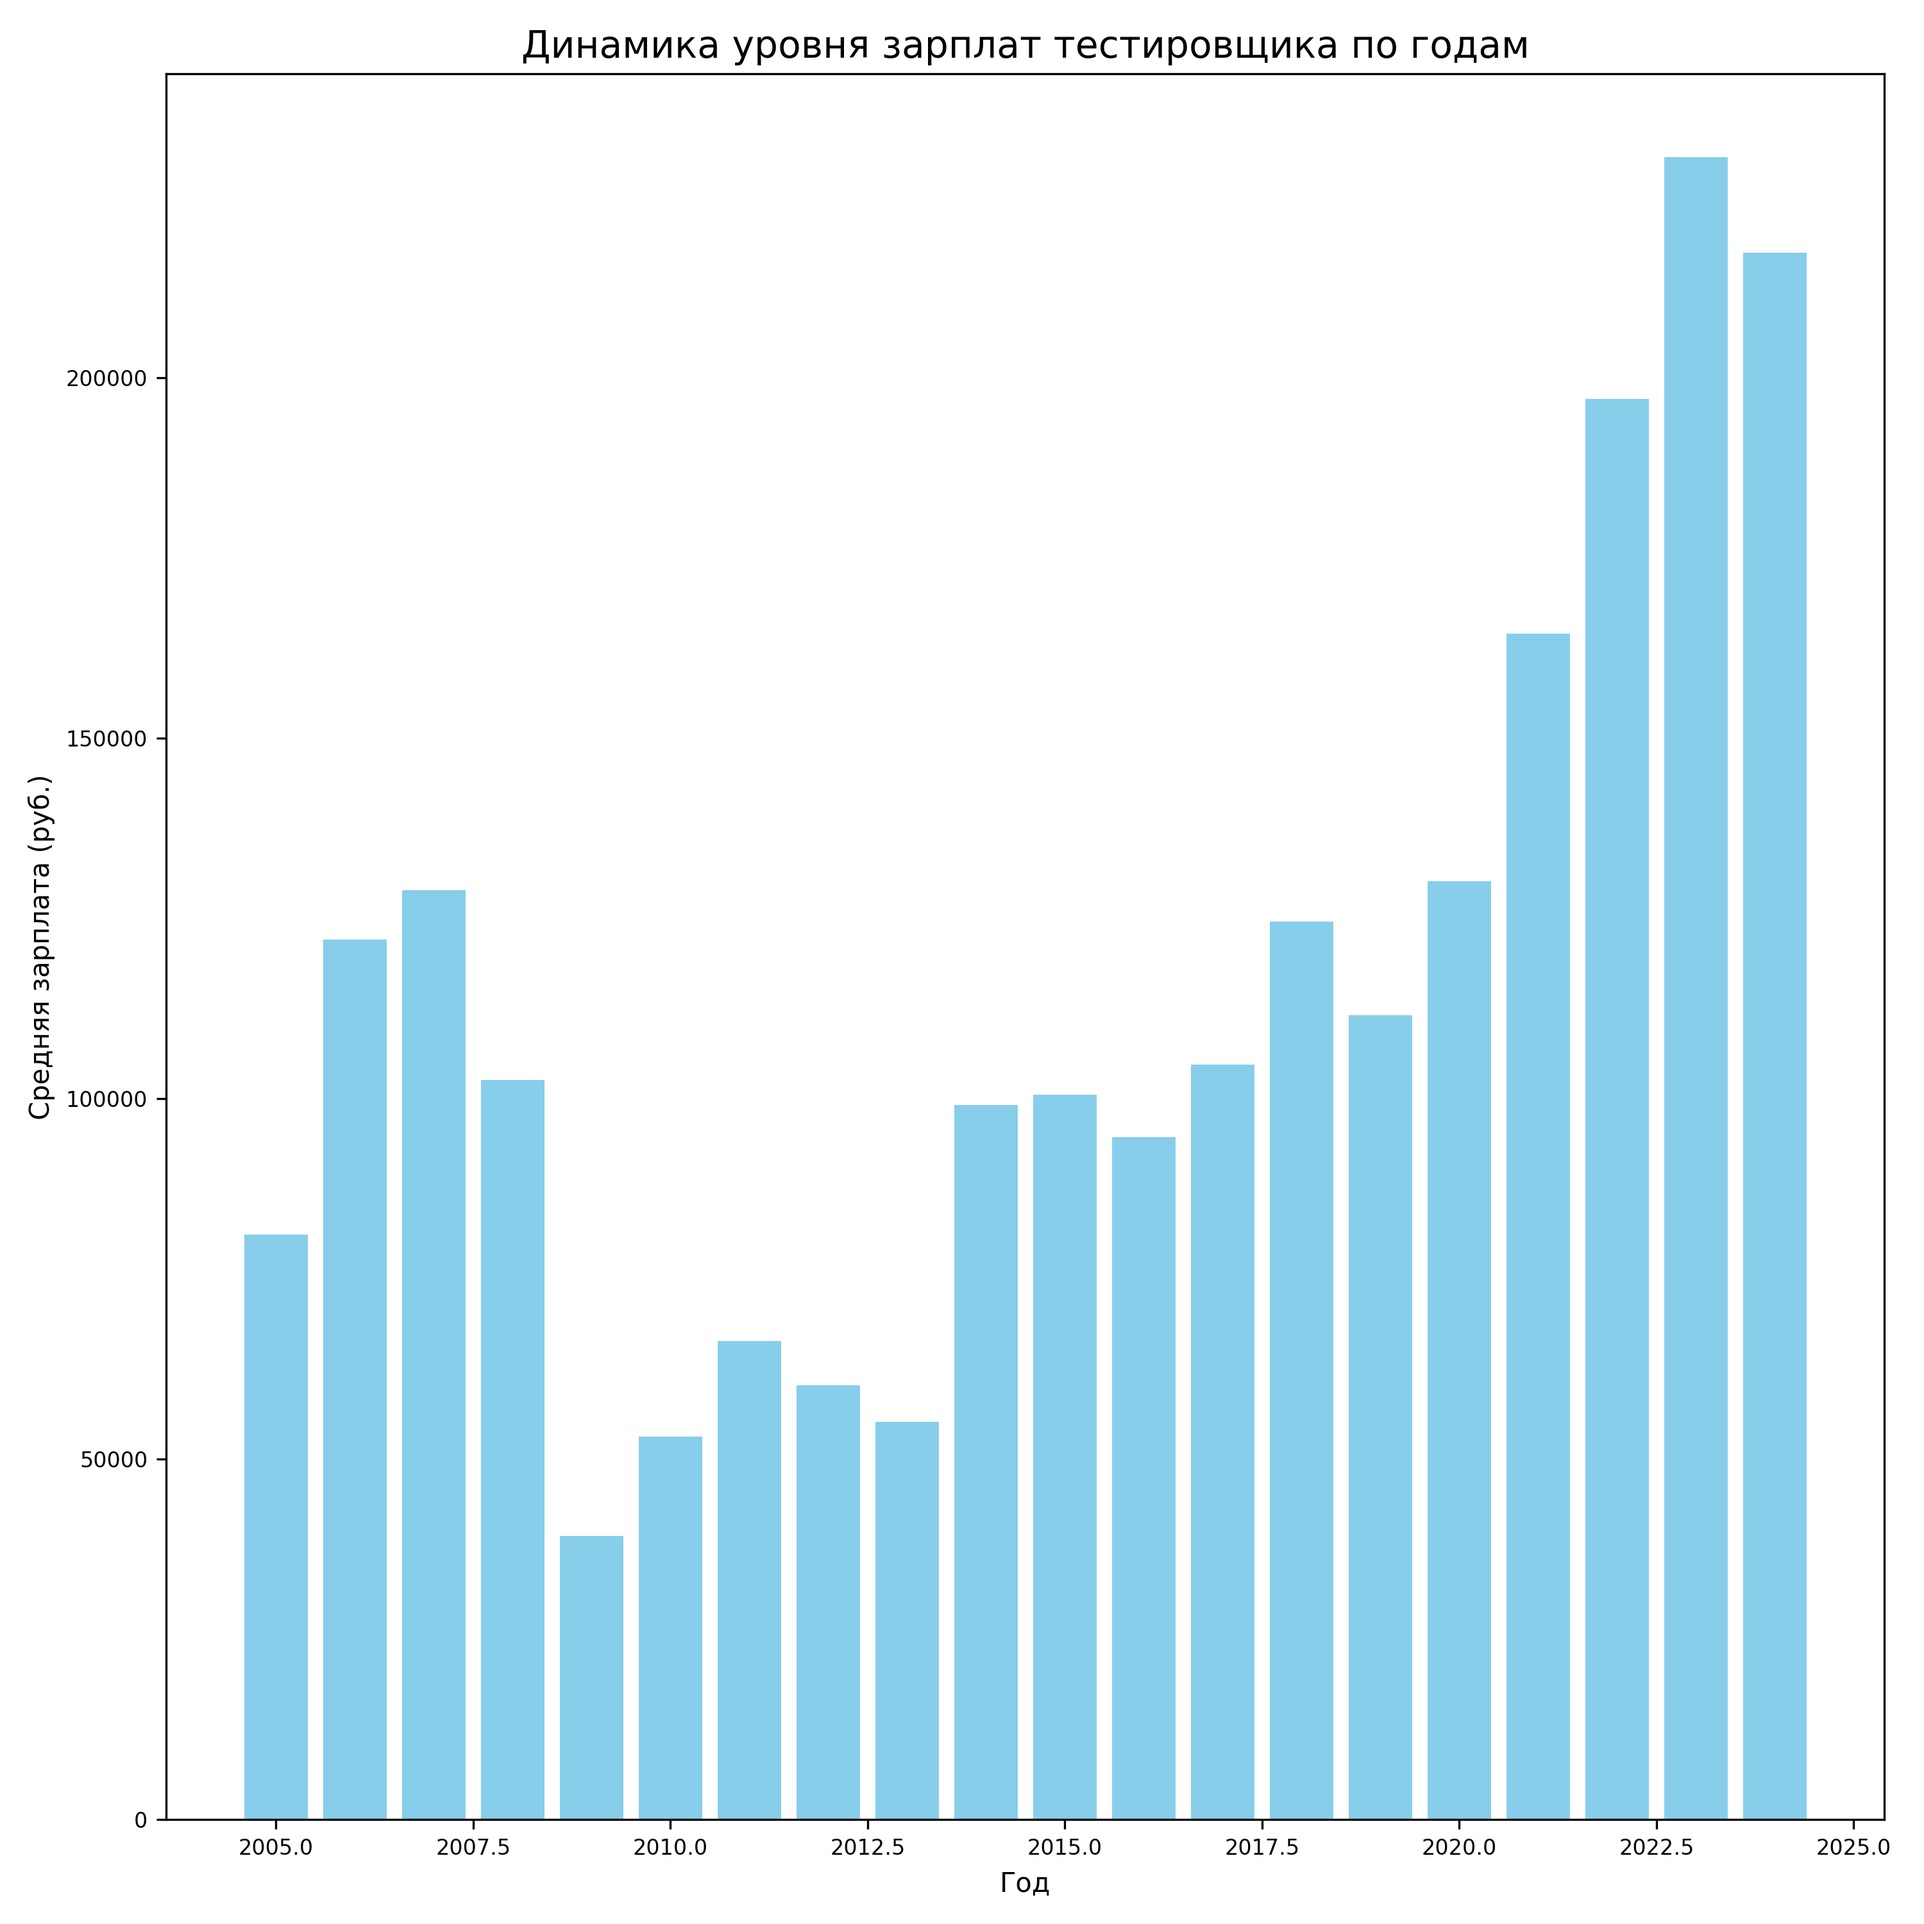
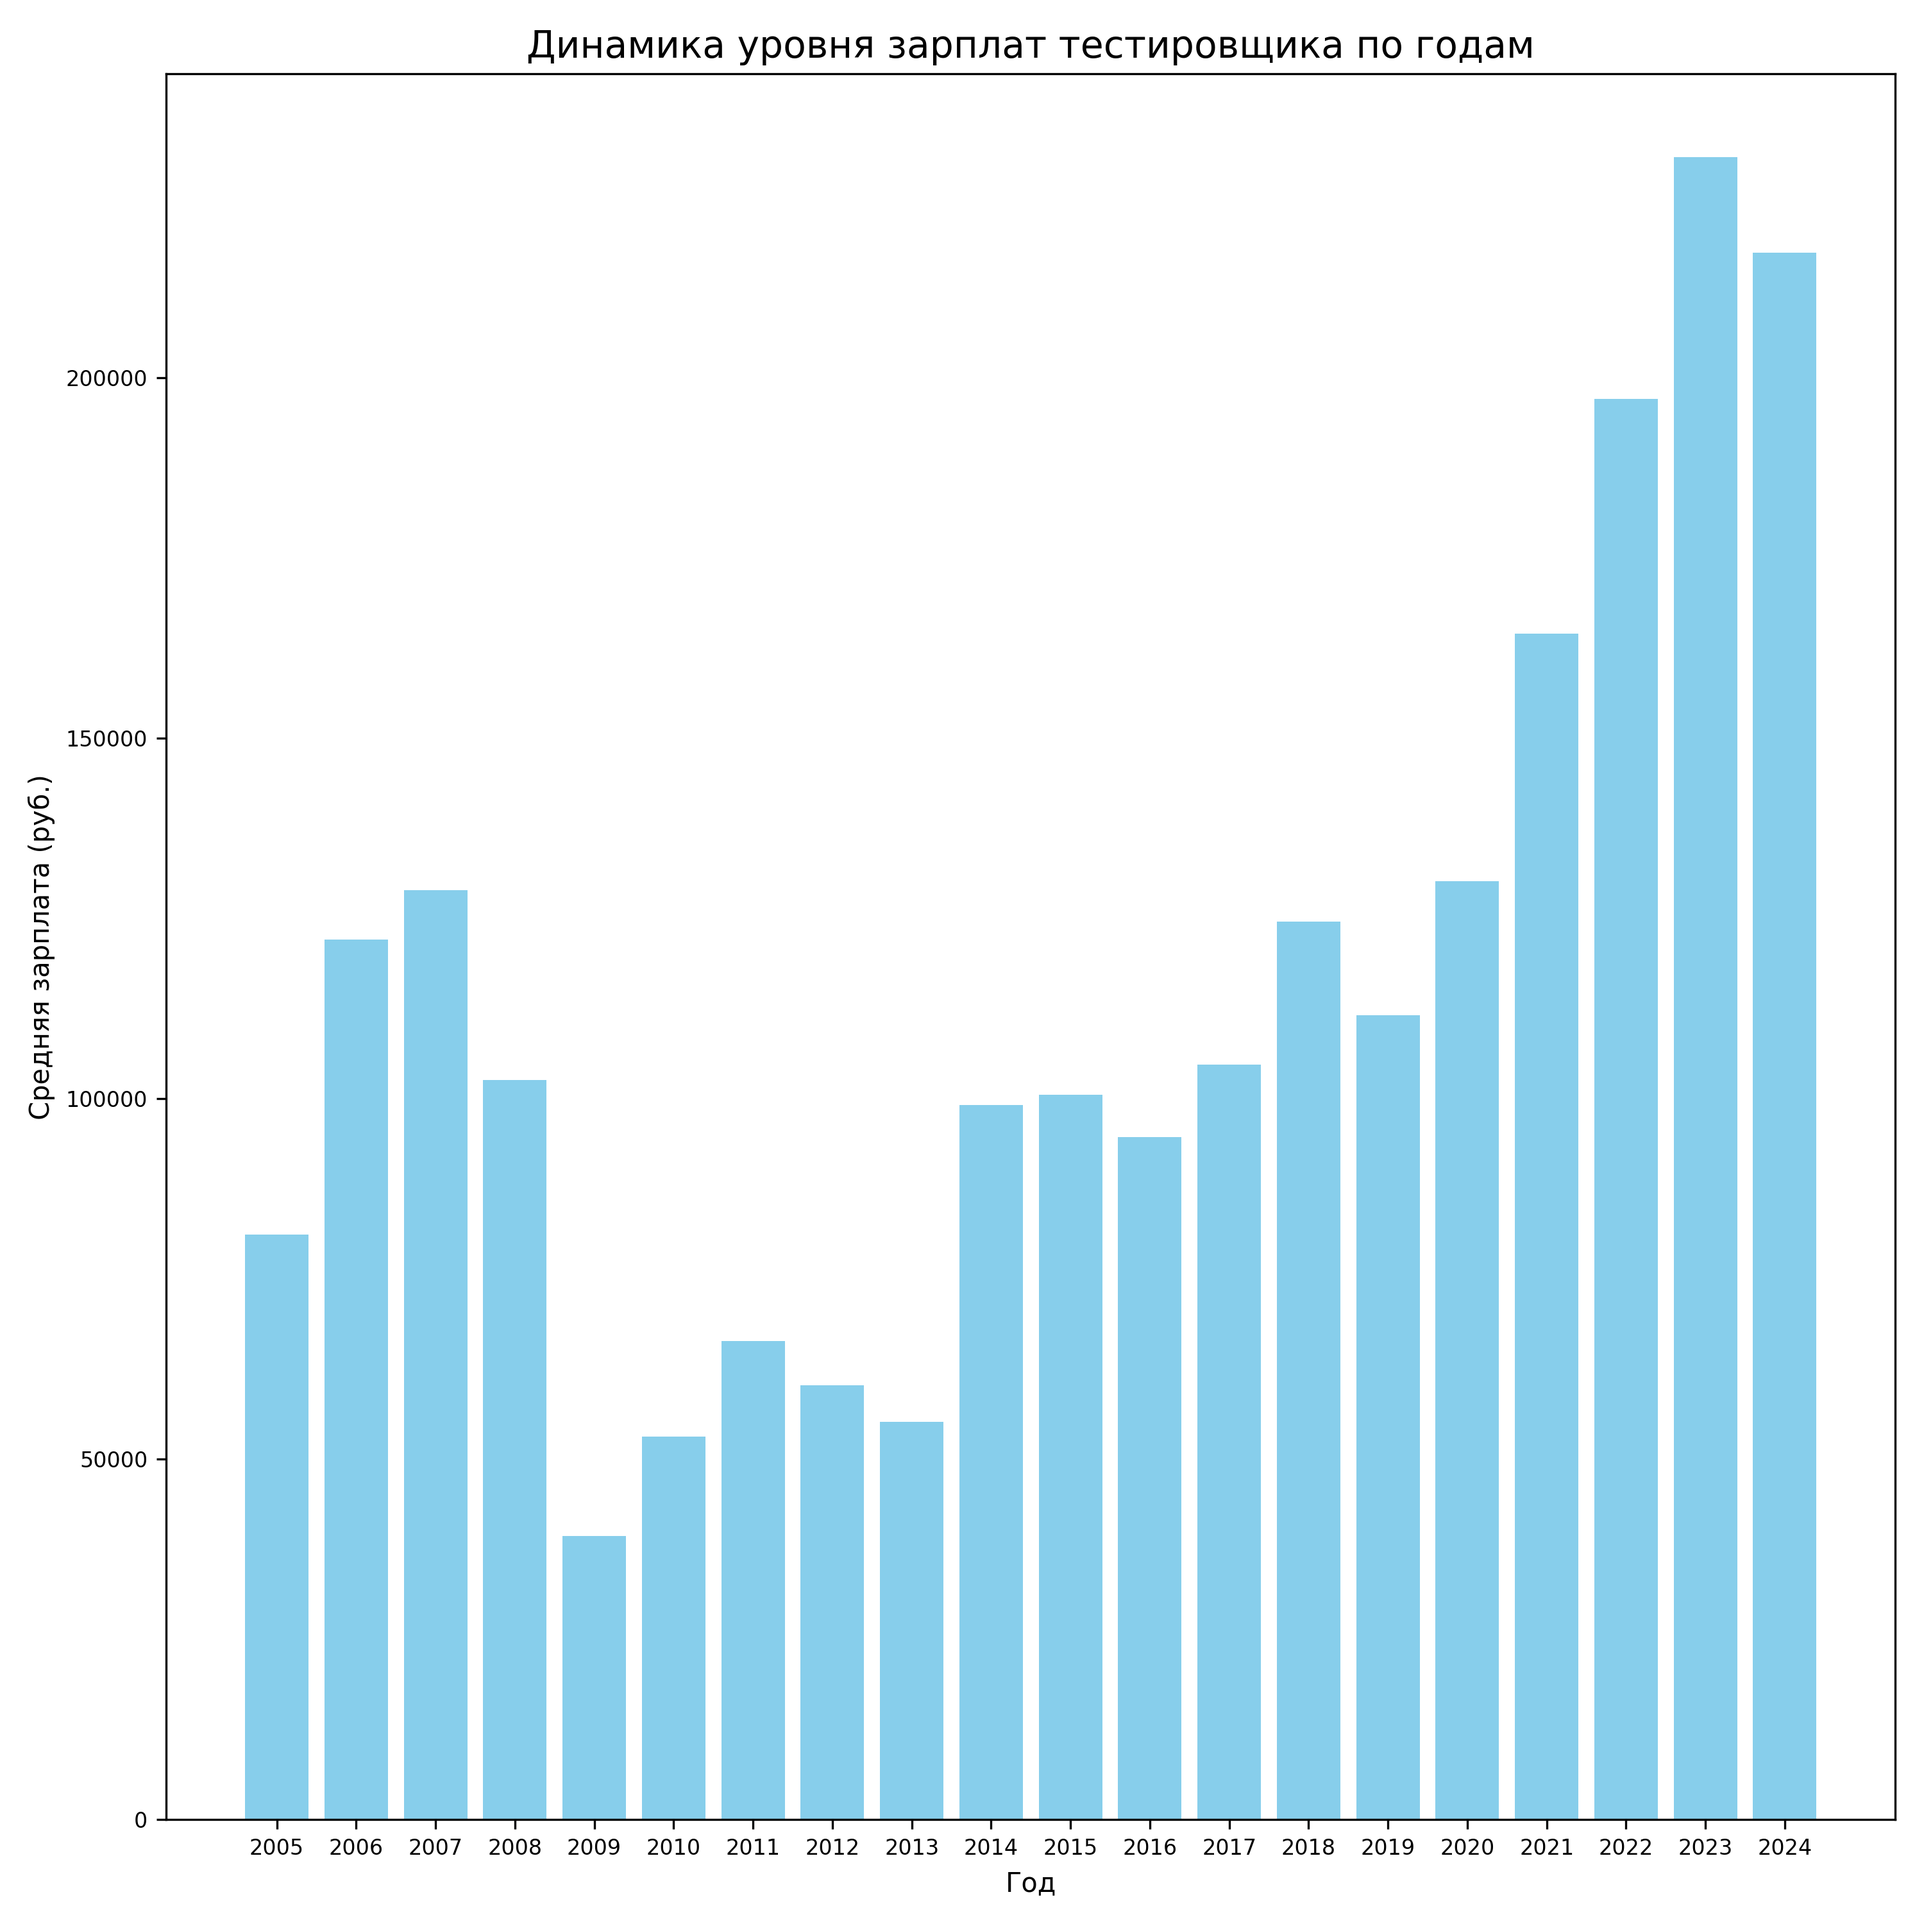
added demand page CRUD-operations

diff --git a/templates/demand/demand.html b/templates/demand/demand.html
@@ -5,3 +5,57 @@
 {% block links %}
 <link rel="stylesheet" href="{% static 'demand/css/demand.css' %}">
 {% endblock %}
+
+{% block content %}
+<section class="statistic-section">
+    <h1 class="statistic-title">Средняя зарплата по годам</h1>
+
+    <div class="section-statistic-flex">
+        <table class="skills-table">
+            <thead>
+                <tr>
+                    <th>Год</th>
+                    <th>Средняя зарплата</th>
+                </tr>
+            </thead>
+            <tbody>
+                {% for year, salary in average_salary.items %}
+                    <tr>
+                        <td>{{ year }}</td>
+                        <td>{{ salary }}</td>
+                    </tr>
+                {% endfor %}
+            </tbody>
+        </table>
+
+        <div class="chart-container">
+            <img src="{% static 'demand/img/avg-salaries.png' %}" alt="График средних зарплат">
+        </div>
+    </div>
+
+    <h1 class="statistic-title">Количество вакансий по годам</h1>
+
+    <div class="section-statistic-flex">
+        <table class="skills-table">
+            <thead>
+                <tr>
+                    <th>Год</th>
+                    <th>Средняя зарплата</th>
+                </tr>
+            </thead>
+            <tbody>
+                {% for year, vacancies_count in vacancies_count.items %}
+                    <tr>
+                        <td>{{ year }}</td>
+                        <td>{{ vacancies_count }}</td>
+                    </tr>
+                {% endfor %}
+            </tbody>
+        </table>
+
+        <div class="chart-container">
+            <img src="{% static 'demand/img/vacancies-count.png' %}" alt="График средних зарплат">
+        </div>
+    </div>
+</section>
+{% endblock %}

diff --git a/static/demand/css/demand.css b/static/demand/css/demand.css
@@ -1,4 +1,49 @@
-.nav-panel ul li:nth-child(3) a {
+.nav-panel ul li:nth-child(5) a {
     color: #eb5959;
     transform: scale(1.05);
+}
+
+.skills-table {
+    margin-left: 40px;
+    margin-bottom: 60px;
+    width: 600px;
+}
+
+.skills-table th, .skills-table td {
+    padding: 10px;
+    text-align: left;
+    border: 1px solid #ddd;
+}
+
+.skills-table th {
+    background-color: #f4f4f4;
+}
+
+.chart-container {
+    text-align: center;
+    margin-top: 20px;
+}
+
+.chart-container img {
+    height: 1000px;
+    width: 1000px;
+}
+
+.section-statistic-flex {
+    display: flex;
+}
+
+.statistic-title {
+    text-align: center;
+    font-size: 36px;
+}
+
+.statistic-section {
+    font-family: 'Jura', sans-serif;
+}
+
+.statistic-section h2 {
+    text-align: center;
+    font-weight: 800;
+    margin-top: 70px;
 }

diff --git a/templates/skills/skills.html b/templates/skills/skills.html
@@ -30,7 +30,6 @@
                 </tbody>
             </table>
 
-            <!-- График -->
             <div class="chart-container">
                 <img src="{% get_static_prefix %}skills/img/skills-plot-{{ year }}.png" alt="График по навыкам за {{ year }}">
             </div>

diff --git a/demand/utils.py b/demand/utils.py
@@ -4,10 +4,11 @@ import matplotlib.pyplot as plt
 import os
 import json
 from django.conf import settings
+from demand.models import DemandPageSalary
+from demand.models import DemandPageVacanciesCount
 
 
 CURRENCY_RATE = {'RUR': 1}
-
 
 def get_currency_rate(currency_code):
     if currency_code not in CURRENCY_RATE:
@@ -107,14 +108,58 @@ def save_salary_graph(input_file):
     plt.xlabel('Год', fontsize=10)
     plt.ylabel('Средняя зарплата (руб.)', fontsize=10)
 
-    plt.xticks(fontsize=8)
+    plt.xticks(years, fontsize=8)
     plt.yticks(fontsize=8)
 
     plt.tight_layout()
 
     img_dir = os.path.join(settings.BASE_DIR, 'static', 'demand', 'img')
-    os.makedirs(img_dir, exist_ok=True)
     file_path = os.path.join(img_dir, f'avg-salaries.png')
     plt.savefig(file_path, dpi=300)
     plt.close()
 
+def save_vacancies_count_graph(input_file):
+    with open(input_file, 'r', encoding='utf-8') as f:
+        vacancies_count_data = json.load(f)
+
+    years = list(map(int, vacancies_count_data.keys()))
+    vacancies_count = [salary for salary in vacancies_count_data.values()]
+
+    plt.figure(figsize=(10, len(vacancies_count) * 0.5))
+    plt.bar(years, vacancies_count, color='skyblue')
+
+    plt.title('Количество вакансий по годам', fontsize=14)
+    plt.xlabel('Год', fontsize=10)
+    plt.ylabel('Количество вакансий', fontsize=10)
+
+    plt.xticks(years, fontsize=8)
+    plt.yticks(fontsize=8)
+
+    plt.tight_layout()
+
+    img_dir = os.path.join(settings.BASE_DIR, 'static', 'demand', 'img')
+    file_path = os.path.join(img_dir, f'vacancies-count.png')
+    plt.savefig(file_path, dpi=300)
+    plt.close()
+
+def import_average_salary(file_path):
+    with open(file_path, 'r', encoding='utf-8') as file:
+        data = json.load(file)
+    
+    for year, average_salary in data.items():
+        rounded_salary = int(round(average_salary))
+        
+        DemandPageSalary.objects.update_or_create(
+            year=year, 
+            defaults={'average_salary': rounded_salary}
+        )
+
+def import_vacancies_count(file_path):
+    with open(file_path, 'r', encoding='utf-8') as file:
+        data = json.load(file)
+    
+    for year, vacancies_count in data.items():
+        DemandPageVacanciesCount.objects.update_or_create(
+            year=year, 
+            defaults={'vacancies_count': vacancies_count}
+        )

diff --git a/demand/views.py b/demand/views.py
@@ -1,10 +1,34 @@
 from django.shortcuts import render
-from .utils import save_salary_graph, vacancies_count_by_year
+from .utils import save_salary_graph, vacancies_count_by_year, save_vacancies_count_graph, import_average_salary, import_vacancies_count
 import os
 from django.conf import settings
+from .models import DemandPageSalary, DemandPageVacanciesCount
 
 
 def index(request):
-    # vacancies_count_by_year('vacancies_2024.csv', 'demand/vacancies_count_by_year')
+    # vacancies_count_by_year('vacancies_2024.csv', 'demand/vacancies_count_by_year.json')
+     
+    # path_to_average_salary = os.path.join(settings.BASE_DIR, 'demand', 'average_salary.json')
+    # import_average_salary(path_to_average_salary)
+
+    # path_to_vacancies_count = os.path.join(settings.BASE_DIR, 'demand', 'vacancies_count_by_year.json')
+    # import_vacancies_count(path_to_vacancies_count)
+
+    # save_vacancies_count_graph('demand/vacancies_count_by_year.json')
+    # save_salary_graph('demand/average_salary.json')
     
-    return render(request, 'demand/demand.html')
+    average_salary_data = DemandPageSalary.objects.all().order_by('year')
+    vacancies_count_data = DemandPageVacanciesCount.objects.all().order_by('year')
+
+    average_salary = {}
+    for stat in average_salary_data:
+        average_salary[stat.year] = stat.average_salary
+
+    vacancies_count = {}
+    for stat in vacancies_count_data:
+        vacancies_count[stat.year] = stat.vacancies_count
+
+    return render(request, 'demand/demand.html', {
+        'average_salary': average_salary,
+        'vacancies_count': vacancies_count,
+    })

diff --git a/demand/models.py b/demand/models.py
@@ -3,7 +3,7 @@ from django.db import models
 
 class DemandPageSalary(models.Model):
     year = models.IntegerField(verbose_name="Год")
-    average_salary = models.FloatField(verbose_name="Средняя зарплата")
+    average_salary = models.IntegerField(verbose_name="Средняя зарплата")
 
 class DemandPageVacanciesCount(models.Model):
     year = models.IntegerField(verbose_name="Год")
